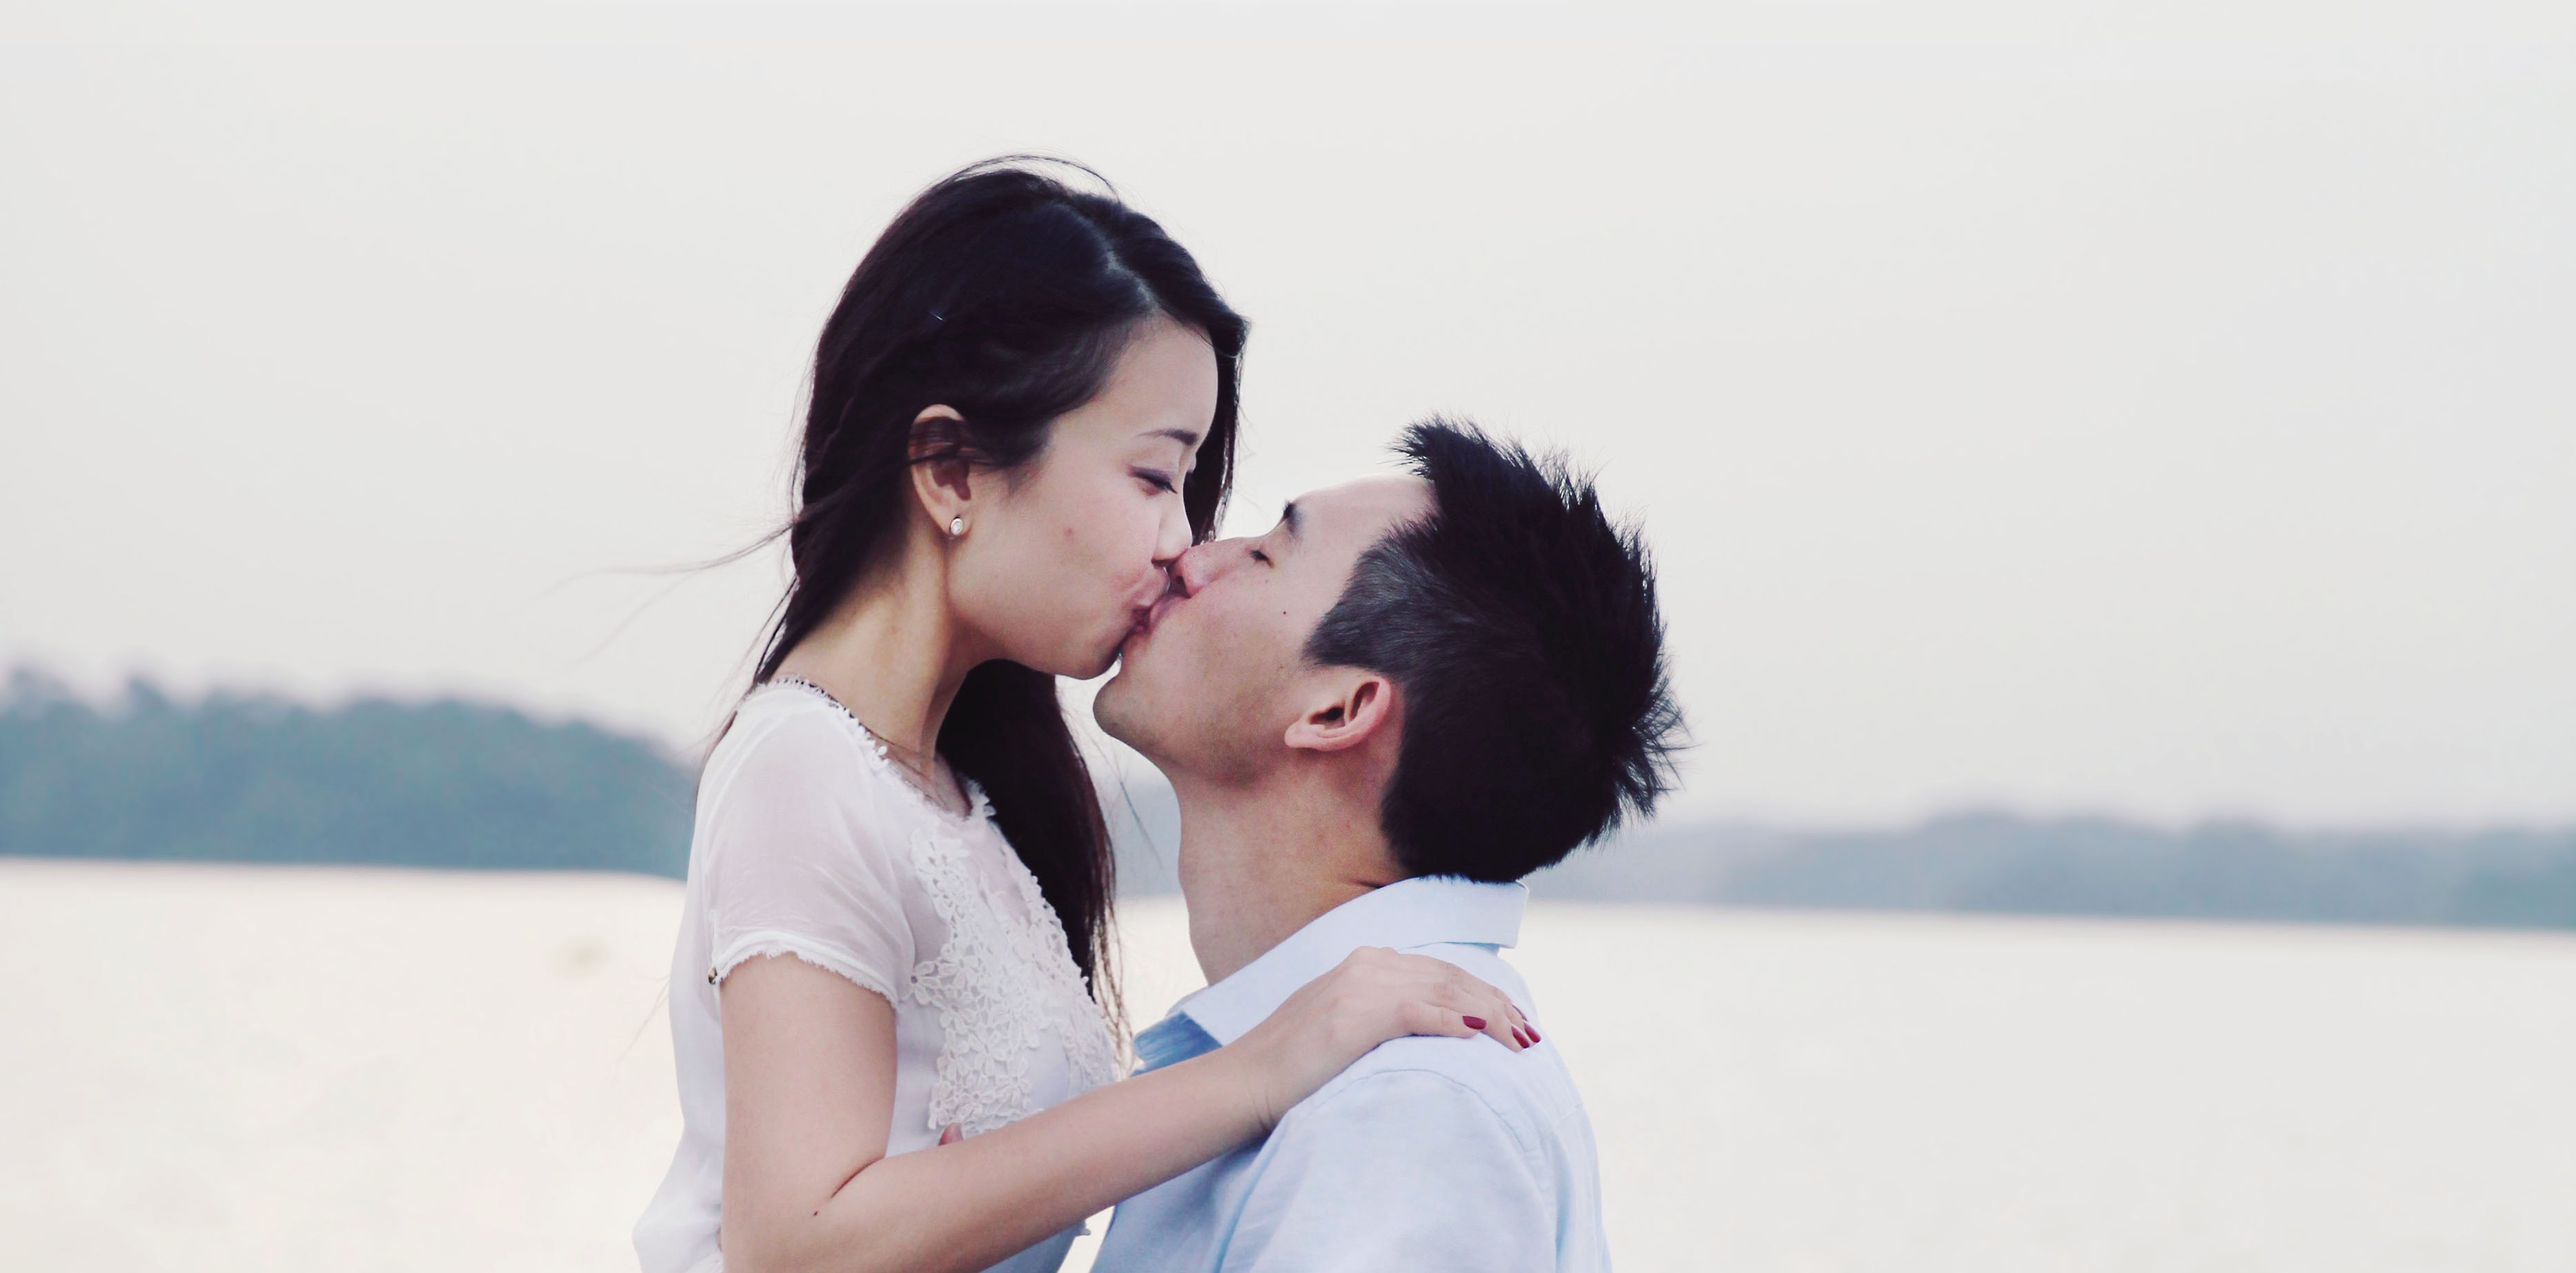
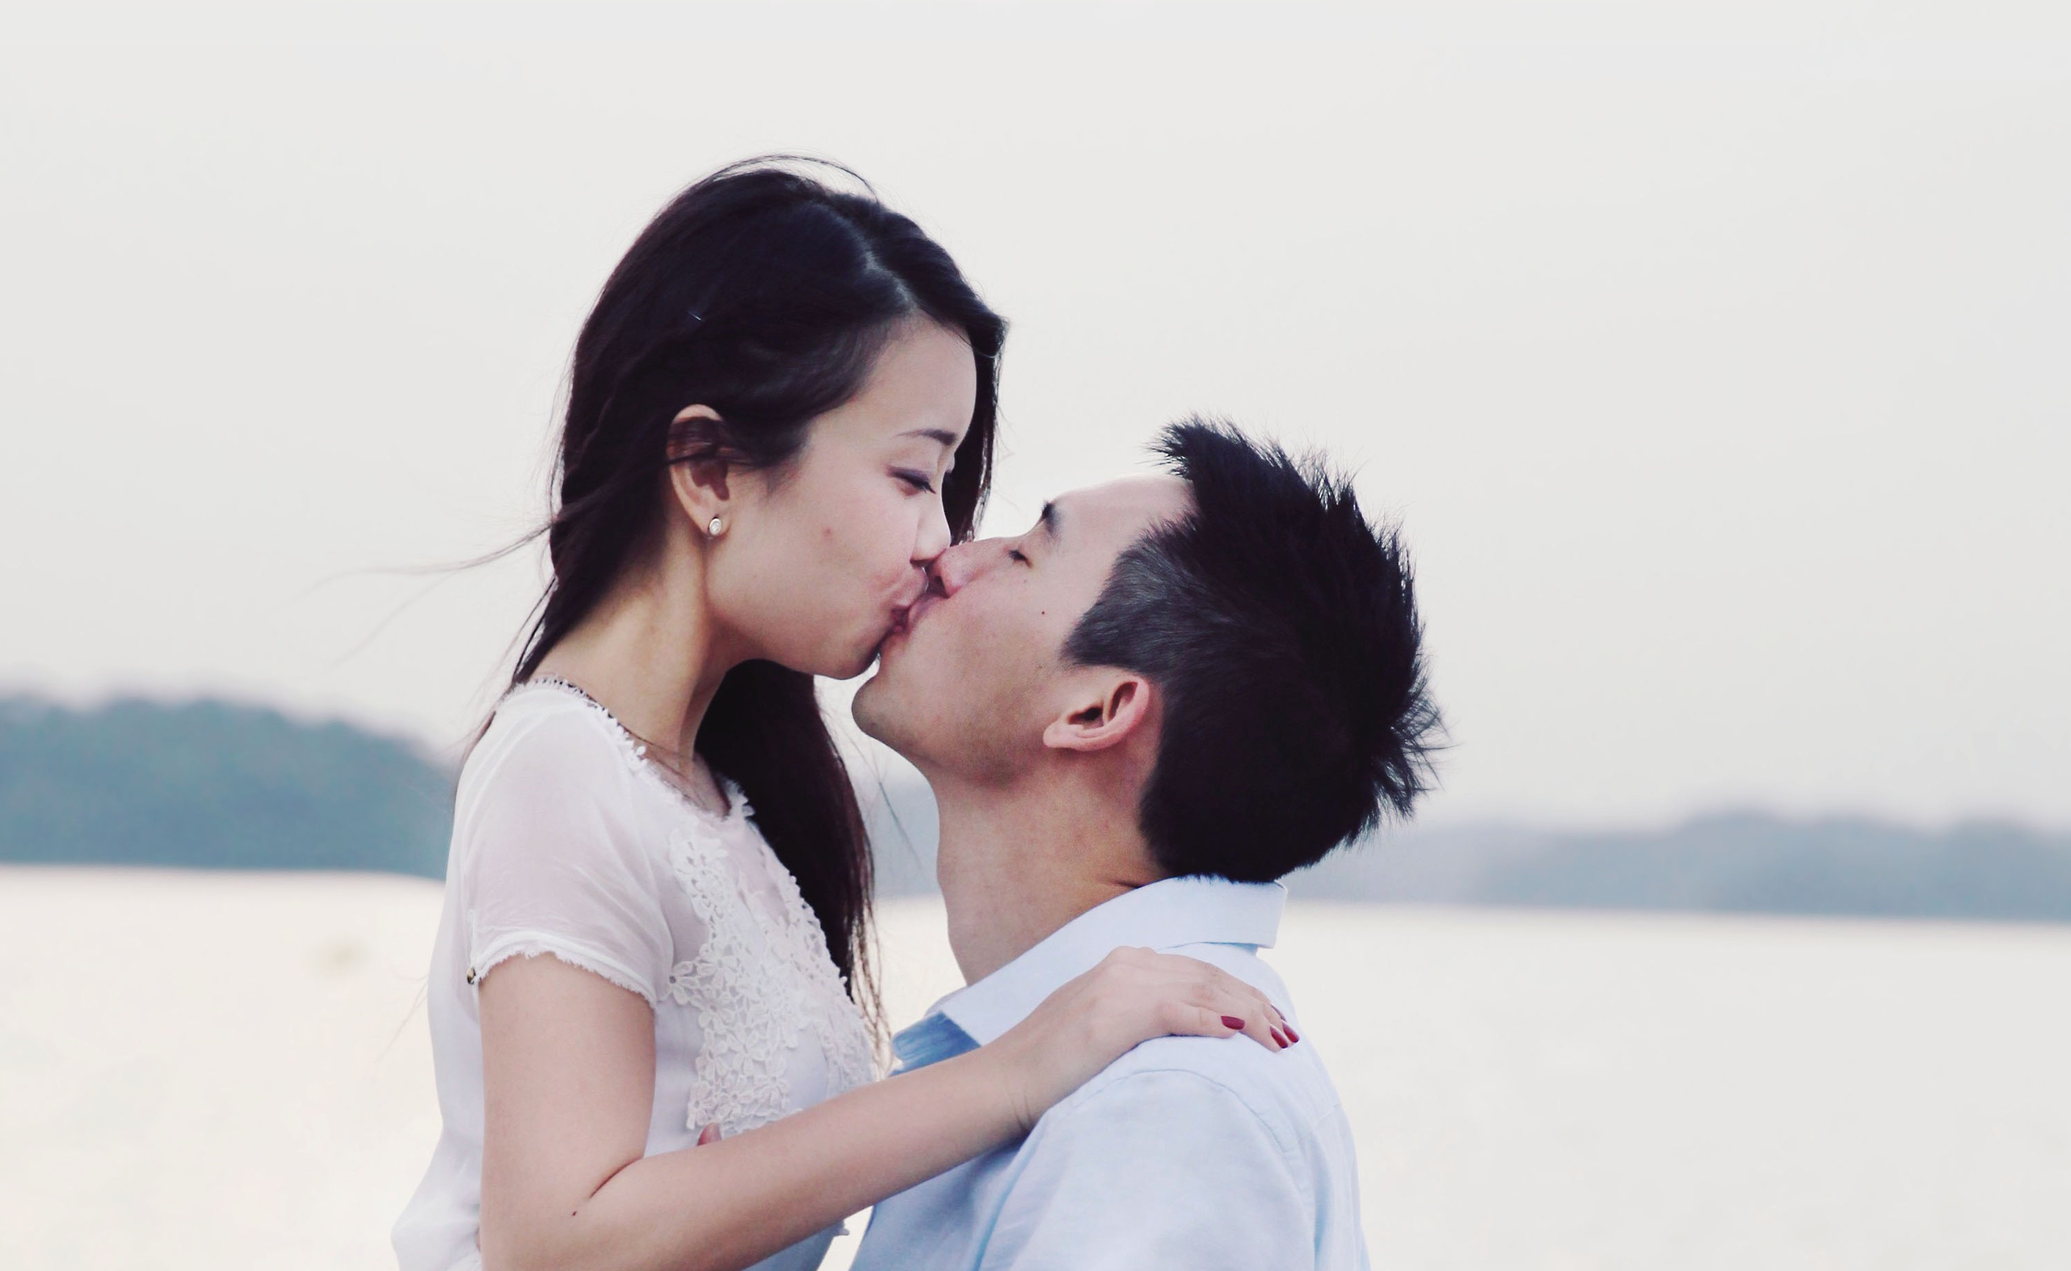
resizing image

diff --git a/server.js b/server.js
@@ -3,7 +3,7 @@
  */
 var express = require('express'),
     routes = require('./routes'),
-    api = require('./routes/api'),
+    // api = require('./routes/api'),
     http = require('http'),
     path = require('path'),
     passport = require('passport'),
@@ -71,26 +71,25 @@ if (app.get('env') === 'production') {
  * Routes
  */
 // serve index and view partials
-app.get('/cardables', routes.splash);
-app.get('/cardables/index.html', routes.index);
-app.get('/cardables/play.html', routes.play);
-app.get('/cardables/pitch.html', routes.pitch);
-app.get('/cardables/game.html', routes.game);
-//app.get('/index', ensureAuthenticated, routes.index);
-app.get('/auth/facebook', passport.authenticate('facebook'), routes.authFacebook);
-app.get('/auth/facebook/callback', passport.authenticate('facebook', { failureRedirect: '/auth/facebook' }), routes.authFacebookCallback);
-app.get('/logout', routes.logout);
+// app.get('/cardables', routes.splash);
+// app.get('/cardables/index.html', routes.index);
+// app.get('/cardables/play.html', routes.play);
+// app.get('/cardables/pitch.html', routes.pitch);
+// app.get('/cardables/game.html', routes.game);
+// app.get('/index', ensureAuthenticated, routes.index);
+// app.get('/auth/facebook', passport.authenticate('facebook'), routes.authFacebook);
+// app.get('/auth/facebook/callback', passport.authenticate('facebook', { failureRedirect: '/auth/facebook' }), routes.authFacebookCallback);
+// app.get('/logout', routes.logout);
 
-// JSON API
-app.get('/cardables/api/createGame', api.createGame);
-app.get('/cardables/api/deleteGame', api.deleteGame);
-app.get('/cardables/api/joinGame', api.joinGame);
-app.get('/cardables/api/getAllGames', api.getAllGames);
-app.get('/cardables/api/deleteAllGames',api.deleteAllGames);
+// // JSON API
+// app.get('/cardables/api/createGame', api.createGame);
+// app.get('/cardables/api/deleteGame', api.deleteGame);
+// app.get('/cardables/api/joinGame', api.joinGame);
+// app.get('/cardables/api/getAllGames', api.getAllGames);
+// app.get('/cardables/api/deleteAllGames',api.deleteAllGames);
 
 // redirect all others to the index (HTML5 history)
 app.get('/savethedate', routes.saveTheDate)
-app.get('/book', routes.book);
 app.get('*', routes.index);
 
 
@@ -98,46 +97,46 @@ app.get('*', routes.index);
  * Start Server
  */
 var server = http.createServer(app);
-var io = require('socket.io').listen(server);
+// var io = require('socket.io').listen(server);
 
 var port = process.env.PORT ||  3000; 
 server.listen(port, function () {
-  // console.log('Express server listening on port ' + app.get('port'));
+  console.log('Express server listening on port ' + app.get('port'));
 });
 
 
 /**
  * Socket.io stuff
  */
-io.sockets.on('connection', function (socket) {
-  // console.log('sessionID '+socket.id+' connected!');
-  socket.on('updateCards', function (data) {
-    // console.log('updateCards '+data.gid + ' ' + data.card);
-    socket.broadcast.to(data.gid).emit('cardsUpdated', {message: data.card})
-  });
+// io.sockets.on('connection', function (socket) {
+//   // console.log('sessionID '+socket.id+' connected!');
+//   socket.on('updateCards', function (data) {
+//     // console.log('updateCards '+data.gid + ' ' + data.card);
+//     socket.broadcast.to(data.gid).emit('cardsUpdated', {message: data.card})
+//   });
 
-  socket.on('join', function (data) {
-    // console.log('sessionID '+socket.id+' joined '+data);
-    socket.join(data);
-    var results = new Array();
-    var clients = io.sockets.clients(data);
-    for(var i=0; i<clients.length; i++){
-      results.push(clients[i].id);
-    }
-    socket.broadcast.to(data).emit('players', {message: results});
-    socket.emit('players', {message: results});
-  });
+//   socket.on('join', function (data) {
+//     // console.log('sessionID '+socket.id+' joined '+data);
+//     socket.join(data);
+//     var results = new Array();
+//     var clients = io.sockets.clients(data);
+//     for(var i=0; i<clients.length; i++){
+//       results.push(clients[i].id);
+//     }
+//     socket.broadcast.to(data).emit('players', {message: results});
+//     socket.emit('players', {message: results});
+//   });
 
-  socket.on('disconnect', function () {
-    // console.log('sessionID '+socket.id+' disconnected!');
-    rooms = io.sockets.manager.roomClients[socket.id];
-    room = Object.keys(rooms)[1].substring(1);
-    socket.leave(room);
-    var results = new Array();
-    var clients = io.sockets.clients(room);
-    for(var i=0; i<clients.length; i++){
-      results.push(clients[i].id);
-    }
-    socket.broadcast.to(room).emit('players', {message: results})
-  });
-});
+//   socket.on('disconnect', function () {
+//     // console.log('sessionID '+socket.id+' disconnected!');
+//     rooms = io.sockets.manager.roomClients[socket.id];
+//     room = Object.keys(rooms)[1].substring(1);
+//     socket.leave(room);
+//     var results = new Array();
+//     var clients = io.sockets.clients(room);
+//     for(var i=0; i<clients.length; i++){
+//       results.push(clients[i].id);
+//     }
+//     socket.broadcast.to(room).emit('players', {message: results})
+//   });
+// });

diff --git a/views/savedate.html b/views/savedate.html
@@ -24,7 +24,7 @@ $(document).ready(function(){
 			$('#intro').parallax("50%", 0.1);
 			$('#second').parallax("50%", 0.1);
 			$('.bg').parallax("50%", 0.7,10);
-			$('#third').parallax("50%", 0.3);
+			$('#third').parallax("100%", 0.5);
 		}else{
 			$("#intro").css('background-attachment','scroll');
 			$("#third").css('background-attachment','scroll');

diff --git a/public/css/parallex.css b/public/css/parallex.css
@@ -145,8 +145,8 @@ span,h3,p{
 #third{
 	background: url(../images/save/kiss2.jpg) 50% 0 no-repeat fixed;
 		/*color: white;*/
-	height: 600px;
-	background-size: 100% 600px;
+	height:500px;
+	background-size: 100% auto;
 	padding: 100px 0 0 0;	
 	z-index: 21;
 }
